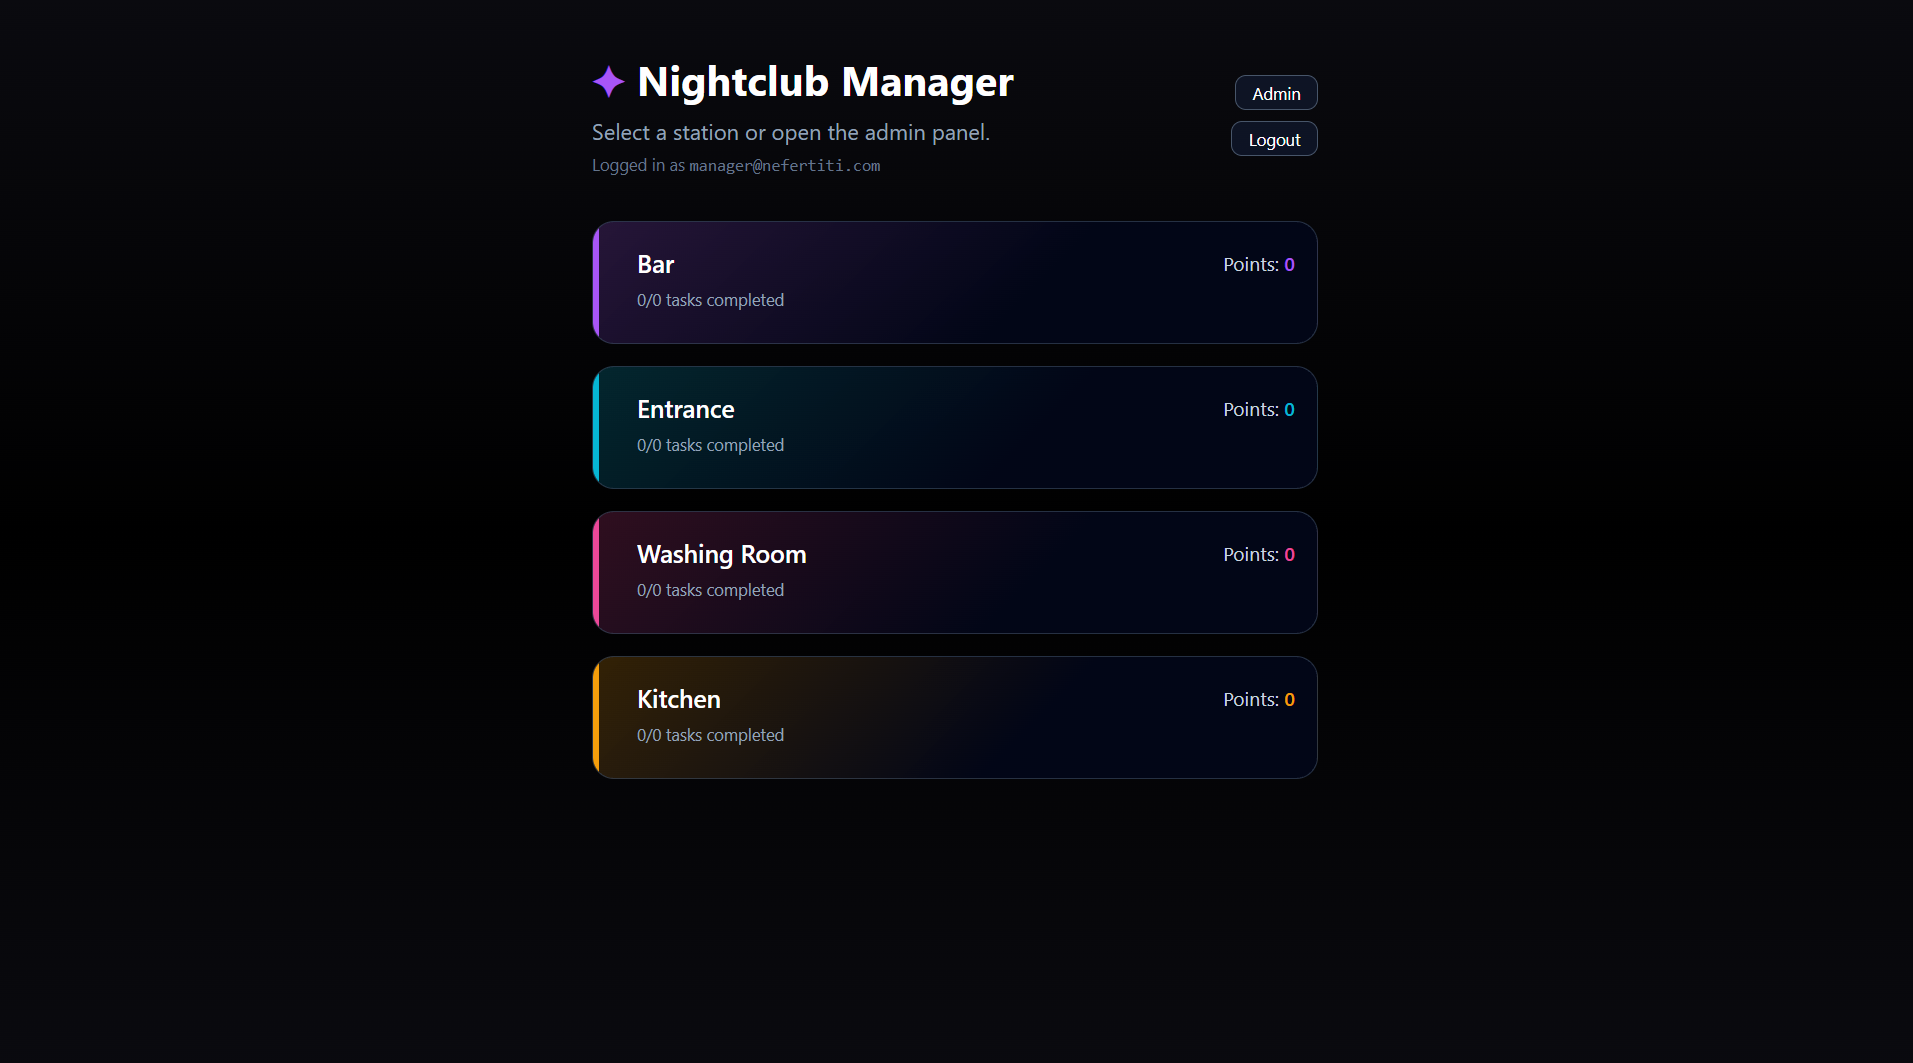
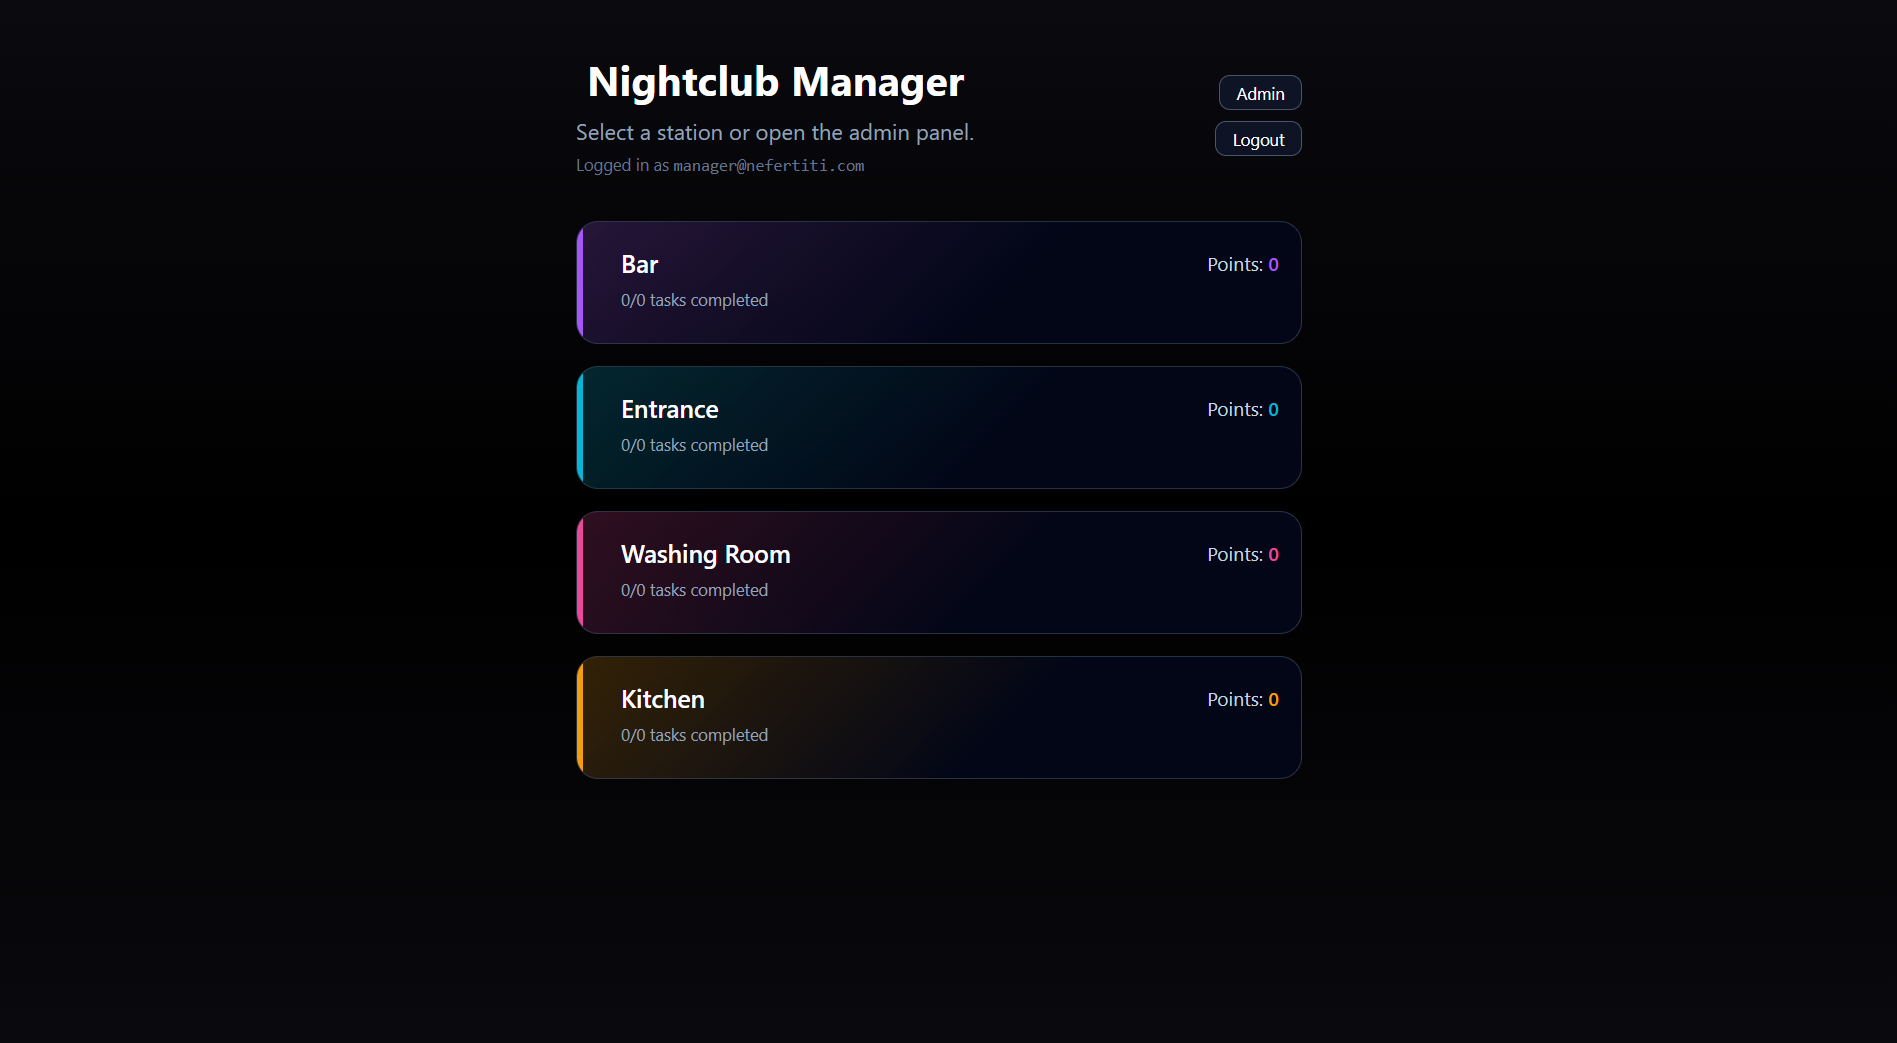
update for images

diff --git a/frontend/src/pages/WorkspacePage.tsx b/frontend/src/pages/WorkspacePage.tsx
@@ -1,16 +1,16 @@
 // src/pages/WorkspacePage.tsx
-import React, { useEffect, useState } from "react";
-import { useNavigate } from "react-router-dom";
-import { signOut } from "firebase/auth";
+import React, { useEffect, useState } from 'react';
+import { useNavigate } from 'react-router-dom';
+import { signOut } from 'firebase/auth';
 
-import { useApp } from "../AppContext";
-import { auth } from "../firebase";
-import { api } from "../api";
-import type { Workspace } from "../types";
+import { useApp } from '../AppContext';
+import { auth } from '../firebase';
+import { api } from '../api';
+import type { Workspace } from '../types';
 
 const WorkspacePage: React.FC = () => {
-  const userEmail = auth.currentUser?.email?.trim().toLowerCase() ?? "";
-  const isAdminUser = userEmail === "manager@nefertiti.com";
+  const userEmail = auth.currentUser?.email?.trim().toLowerCase() ?? '';
+  const isAdminUser = userEmail === 'manager@nefertiti.com';
 
   const nav = useNavigate();
   const { setWorkspaceId } = useApp();
@@ -19,10 +19,10 @@ const WorkspacePage: React.FC = () => {
   const [loading, setLoading] = useState(true);
   const [error, setError] = useState<string | null>(null);
 
-  const [workspaceName, setWorkspaceName] = useState("");
+  const [workspaceName, setWorkspaceName] = useState('');
   const [creating, setCreating] = useState(false);
 
-  // -------- LOAD WORKSPACES (REST, not tRPC) ----------
+  // LOAD WORKSPACES
   const loadWorkspaces = async () => {
     setLoading(true);
     setError(null);
@@ -30,8 +30,8 @@ const WorkspacePage: React.FC = () => {
       const data = await api.getWorkspaces();
       setWorkspaces(data);
     } catch (err) {
-      console.error("Failed to load workspaces", err);
-      setError("Could not load workspaces from server.");
+      console.error('Failed to load workspaces', err);
+      setError('Could not load workspaces from server.');
     } finally {
       setLoading(false);
     }
@@ -44,11 +44,11 @@ const WorkspacePage: React.FC = () => {
   const handleSelectWorkspace = async (id: string) => {
     try {
       setWorkspaceId(id);
-      localStorage.setItem("workspaceId", id);
-      nav("/zone", { replace: true });
+      localStorage.setItem('workspaceId', id);
+      nav('/zone', { replace: true });
     } catch (err) {
-      console.error("Failed to select workspace", err);
-      alert("Could not select workspace");
+      console.error('Failed to select workspace', err);
+      alert('Could not select workspace');
     }
   };
 
@@ -63,12 +63,12 @@ const WorkspacePage: React.FC = () => {
       // add new one to list + auto-select
       setWorkspaces((prev) => [...prev, workspace]);
       setWorkspaceId(workspace.id);
-      localStorage.setItem("workspaceId", workspace.id);
-      setWorkspaceName("");
-      nav("/zone", { replace: true });
+      localStorage.setItem('workspaceId', workspace.id);
+      setWorkspaceName('');
+      nav('/zone', { replace: true });
     } catch (err) {
-      console.error("Create workspace error", err);
-      alert("Could not create workspace");
+      console.error('Create workspace error', err);
+      alert('Could not create workspace');
     } finally {
       setCreating(false);
     }
@@ -81,8 +81,8 @@ const WorkspacePage: React.FC = () => {
       console.error(e);
     }
     setWorkspaceId(null);
-    localStorage.removeItem("workspaceId");
-    nav("/", { replace: true });
+    localStorage.removeItem('workspaceId');
+    nav('/', { replace: true });
   };
 
   return (
@@ -92,8 +92,7 @@ const WorkspacePage: React.FC = () => {
         <header className="mb-8 flex items-center justify-between">
           <div>
             <h1 className="text-3xl font-bold flex items-center gap-2">
-              <span className="text-neonPurple text-3xl">✦</span>{" "}
-              Select Workspace
+              <span className="text-neonPurple text-3xl"></span> Select Workspace
             </h1>
             <p className="text-slate-400 mt-2">
               Choose your nightclub. Your manager creates workspaces for you.
@@ -131,10 +130,8 @@ const WorkspacePage: React.FC = () => {
                 <div className="flex-1">
                   <div className="font-semibold text-lg">{ws.name}</div>
                   <div className="text-xs text-slate-400">
-                    Created{" "}
-                    {ws.createdAt
-                      ? new Date(ws.createdAt).toLocaleDateString()
-                      : "recently"}
+                    Created{' '}
+                    {ws.createdAt ? new Date(ws.createdAt).toLocaleDateString() : 'recently'}
                   </div>
                 </div>
               </button>
@@ -145,16 +142,11 @@ const WorkspacePage: React.FC = () => {
         {/* Create workspace (admin only) */}
         {isAdminUser && (
           <div className="rounded-2xl border border-neonPurple/60 bg-gradient-to-r from-neonPurple/20 to-neonCyan/10 px-4 py-5">
-            <h2 className="text-lg font-semibold mb-2">
-              Create New Workspace
-            </h2>
+            <h2 className="text-lg font-semibold mb-2">Create New Workspace</h2>
             <p className="text-xs text-slate-300 mb-3">
               Example: <span className="italic">Club Nefertiti</span>
             </p>
-            <form
-              onSubmit={handleCreateWorkspace}
-              className="flex flex-col sm:flex-row gap-3"
-            >
+            <form onSubmit={handleCreateWorkspace} className="flex flex-col sm:flex-row gap-3">
               <input
                 type="text"
                 value={workspaceName}
@@ -167,7 +159,7 @@ const WorkspacePage: React.FC = () => {
                 disabled={creating || !workspaceName.trim()}
                 className="px-4 py-2 rounded-lg bg-neonPurple text-sm font-semibold hover:bg-neonPurple/90 disabled:opacity-50 disabled:cursor-not-allowed"
               >
-                {creating ? "Creating…" : "Create"}
+                {creating ? 'Creating…' : 'Create'}
               </button>
             </form>
           </div>
@@ -175,8 +167,7 @@ const WorkspacePage: React.FC = () => {
 
         {!isAdminUser && (
           <p className="text-xs text-slate-500 mt-4">
-            Only admins can create new workspaces. Ask your manager to add one
-            for you.
+            Only admins can create new workspaces. Ask your manager to add one for you.
           </p>
         )}
       </div>

diff --git a/frontend/src/pages/HomePage.tsx b/frontend/src/pages/HomePage.tsx
@@ -1,9 +1,9 @@
 // src/pages/HomePage.tsx
-import React, { useEffect, useMemo, useState } from "react";
-import { useNavigate } from "react-router-dom";
-import { signOut } from "firebase/auth";
-import { auth } from "../firebase";
-import { useApp } from "../AppContext";
+import React, { useEffect, useMemo, useState } from 'react';
+import { useNavigate } from 'react-router-dom';
+import { signOut } from 'firebase/auth';
+import { auth } from '../firebase';
+import { useApp } from '../AppContext';
 
 const HomePage: React.FC<{ isAdmin: boolean }> = ({ isAdmin }) => {
   const {
@@ -18,11 +18,11 @@ const HomePage: React.FC<{ isAdmin: boolean }> = ({ isAdmin }) => {
 
   const nav = useNavigate();
   const [passwordModal, setPasswordModal] = useState(false);
-  const [password, setPassword] = useState("");
+  const [password, setPassword] = useState('');
 
   useEffect(() => {
     if (!workspaceId) {
-      nav("/workspace", { replace: true });
+      nav('/workspace', { replace: true });
     }
   }, [workspaceId, nav]);
 
@@ -49,7 +49,7 @@ const HomePage: React.FC<{ isAdmin: boolean }> = ({ isAdmin }) => {
 
   const handleStationClick = (id: string) => {
     selectStation(id);
-    nav("/station");
+    nav('/station');
   };
 
   const handleAdminClick = () => {
@@ -59,21 +59,21 @@ const HomePage: React.FC<{ isAdmin: boolean }> = ({ isAdmin }) => {
 
   const handleAdminSubmit = () => {
     if (verifyPassword(password)) {
-      setPassword("");
+      setPassword('');
       setPasswordModal(false);
       enterAdminMode();
-      nav("/admin");
+      nav('/admin');
     } else {
-      alert("Incorrect password");
-      setPassword("");
+      alert('Incorrect password');
+      setPassword('');
     }
   };
 
   const handleLogout = async () => {
     await signOut(auth);
     setWorkspaceId(null);
-    localStorage.removeItem("workspaceId");
-    nav("/", { replace: true });
+    localStorage.removeItem('workspaceId');
+    nav('/', { replace: true });
   };
 
   return (
@@ -82,12 +82,12 @@ const HomePage: React.FC<{ isAdmin: boolean }> = ({ isAdmin }) => {
         <header className="mb-8 flex justify-between items-center gap-3">
           <div>
             <h1 className="text-3xl font-bold flex items-center gap-2">
-              <span className="text-neonPurple text-3xl">✦</span> Nightclub Manager
+              <span className="text-neonPurple text-3xl"></span> Nightclub Manager
             </h1>
             <p className="text-slate-400 mt-2">
               {isAdmin
-                ? "Select a station or open the admin panel."
-                : "Select your assigned station to see your tasks."}
+                ? 'Select a station or open the admin panel.'
+                : 'Select your assigned station to see your tasks.'}
             </p>
             {userEmail && (
               <p className="text-xs text-slate-500 mt-1">
@@ -124,13 +124,13 @@ const HomePage: React.FC<{ isAdmin: boolean }> = ({ isAdmin }) => {
               const progress = getStationProgress(station.id);
               return (
                 <button
-  key={station.id}
-  onClick={() => handleStationClick(station.id)}
-  className="w-full text-left rounded-2xl border border-slate-700/70 px-4 py-4 hover:border-neonPurple/60 transition relative overflow-hidden"
-  style={{
-    background: `linear-gradient(135deg, ${station.color}33, #020617 60%)`,
-  }}
->
+                  key={station.id}
+                  onClick={() => handleStationClick(station.id)}
+                  className="w-full text-left rounded-2xl border border-slate-700/70 px-4 py-4 hover:border-neonPurple/60 transition relative overflow-hidden"
+                  style={{
+                    background: `linear-gradient(135deg, ${station.color}33, #020617 60%)`,
+                  }}
+                >
                   <div
                     className="absolute inset-y-0 left-0 w-1"
                     style={{ backgroundColor: station.color }}
@@ -139,11 +139,8 @@ const HomePage: React.FC<{ isAdmin: boolean }> = ({ isAdmin }) => {
                     <div className="flex justify-between items-center mb-1">
                       <span className="font-semibold text-lg">{station.name}</span>
                       <span className="text-sm text-slate-300">
-                        Points:{" "}
-                        <span
-                          style={{ color: station.color }}
-                          className="font-semibold"
-                        >
+                        Points:{' '}
+                        <span style={{ color: station.color }} className="font-semibold">
                           {progress.points}
                         </span>
                       </span>
@@ -179,7 +176,7 @@ const HomePage: React.FC<{ isAdmin: boolean }> = ({ isAdmin }) => {
               type="password"
               value={password}
               onChange={(e) => setPassword(e.target.value)}
-              onKeyDown={(e) => e.key === "Enter" && handleAdminSubmit()}
+              onKeyDown={(e) => e.key === 'Enter' && handleAdminSubmit()}
               className="w-full px-3 py-2 bg-slate-900 border border-slate-600 rounded-lg mb-4"
               placeholder="Password"
               autoFocus
@@ -194,7 +191,7 @@ const HomePage: React.FC<{ isAdmin: boolean }> = ({ isAdmin }) => {
               <button
                 onClick={() => {
                   setPasswordModal(false);
-                  setPassword("");
+                  setPassword('');
                 }}
                 className="flex-1 px-4 py-2 bg-slate-700 rounded-lg hover:bg-slate-600"
               >
